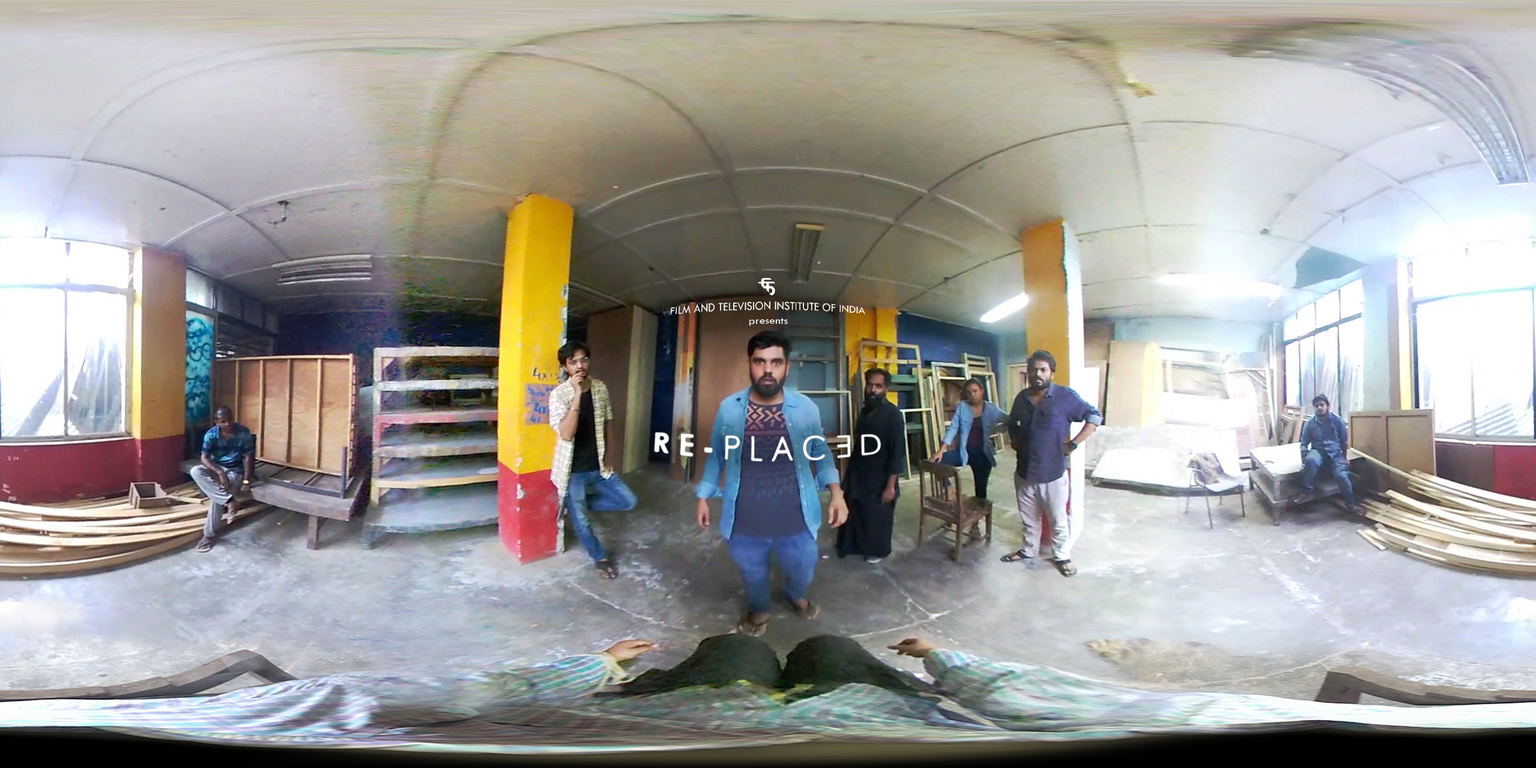
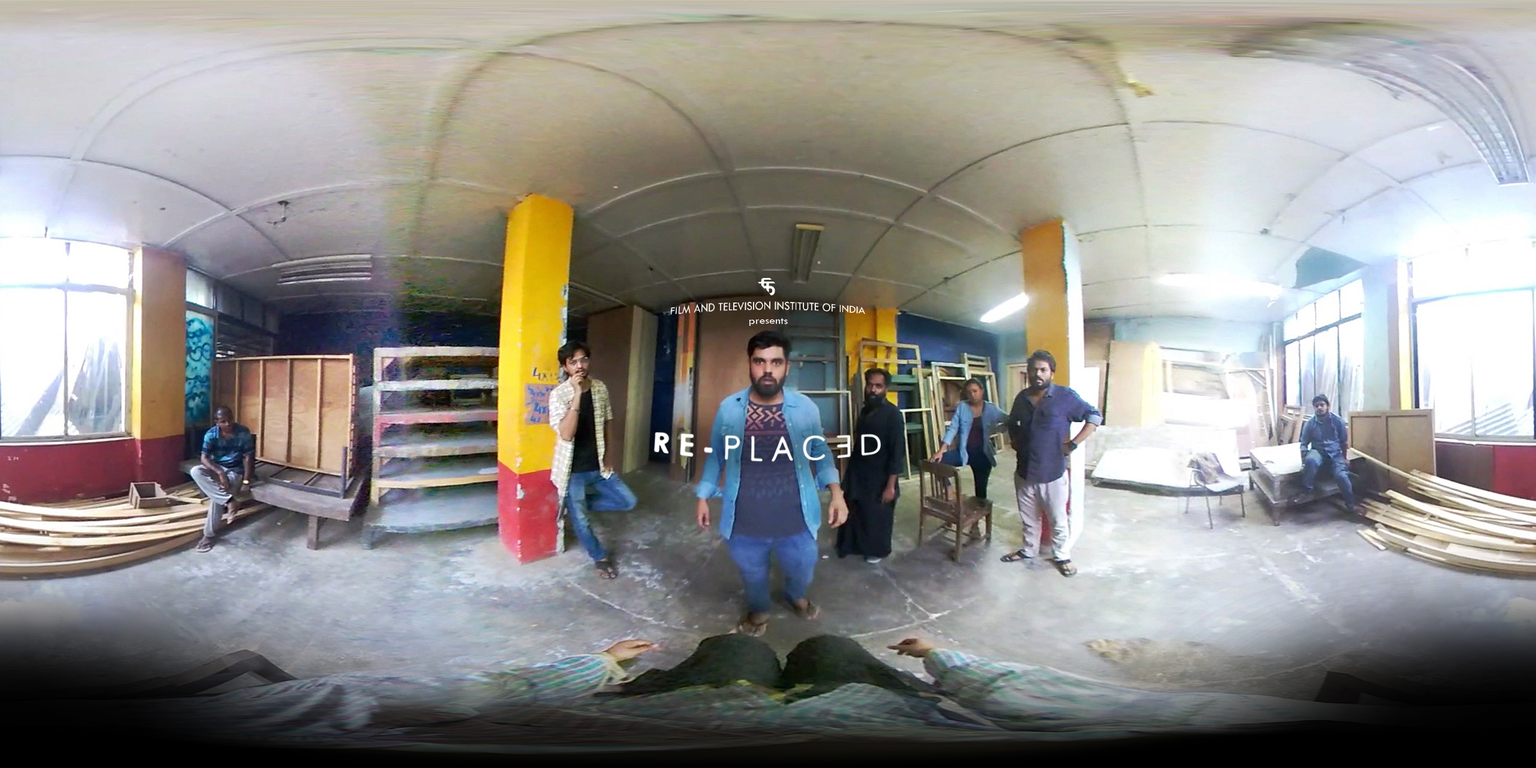
update lnked publications

Changed region(s): [[0.0, 0.75, 1.0, 1.0]]

diff --git a/_includes/publications-single.html b/_includes/publications-single.html
@@ -19,8 +19,12 @@
             {{ teaser }}
           {% else %}
             {{ teaser | relative_url }}
-          {% endif %}); background-size: cover;background-position: center;'>
-          
+          {% endif %}); background-size: cover; background-position: center;  filter: 
+          grayscale({% if post.fullpage == "yes" %}
+            0
+          {% else %}
+            0.9
+          {% endif %});'>
       </div>
     {% endif %}
 
@@ -29,9 +33,9 @@
     {% if post.fullpage == "yes" %}
     <h2 class="publications__item-title" itemprop="headline">
       {% if post.link %}
-        <a href="{{ post.link }}">{{ title }}</a> <a href="{{ post.url | relative_url }}" rel="permalink"><i class="fas fa-link" aria-hidden="true" title="permalink"></i><span class="sr-only">Permalink</span></a>
+        <a class="publication_linked" href="{{ post.link }}">{{ title }}</a> <a href="{{ post.url | relative_url }}" rel="permalink"><i class="fas fa-link" aria-hidden="true" title="permalink"></i><span class="sr-only">Permalink</span></a>
       {% else %}
-        <a href="{{ post.url | relative_url }}" rel="permalink">{{ title }}</a>      
+        <a class="publication_linked"href="{{ post.url | relative_url }}" rel="permalink">{{ title }}</a>      
     {% endif %}
     </h2>
         

diff --git a/_sass/minimal-mistakes/_publications.scss b/_sass/minimal-mistakes/_publications.scss
@@ -133,6 +133,12 @@
   }
 }
 
+
+a.publication_linked {
+    color: $primary-color;
+  }
+
+
 /*
    List view
    ========================================================================== */

diff --git a/_publications/vr-storytelling-ftii2018.md b/_publications/vr-storytelling-ftii2018.md
@@ -11,6 +11,7 @@ venue: "Art Direction & Production Design (Workshop) & Film Appriciation course 
 excerpt: Excerpt to be added
 homepage: "no"
 fullpage: "yes"
+permalink: workshops/FTII2018/
 header:
     teaser: /assets/img/publications/icon-pub-ftii2018.jpg
 layout: publications  
